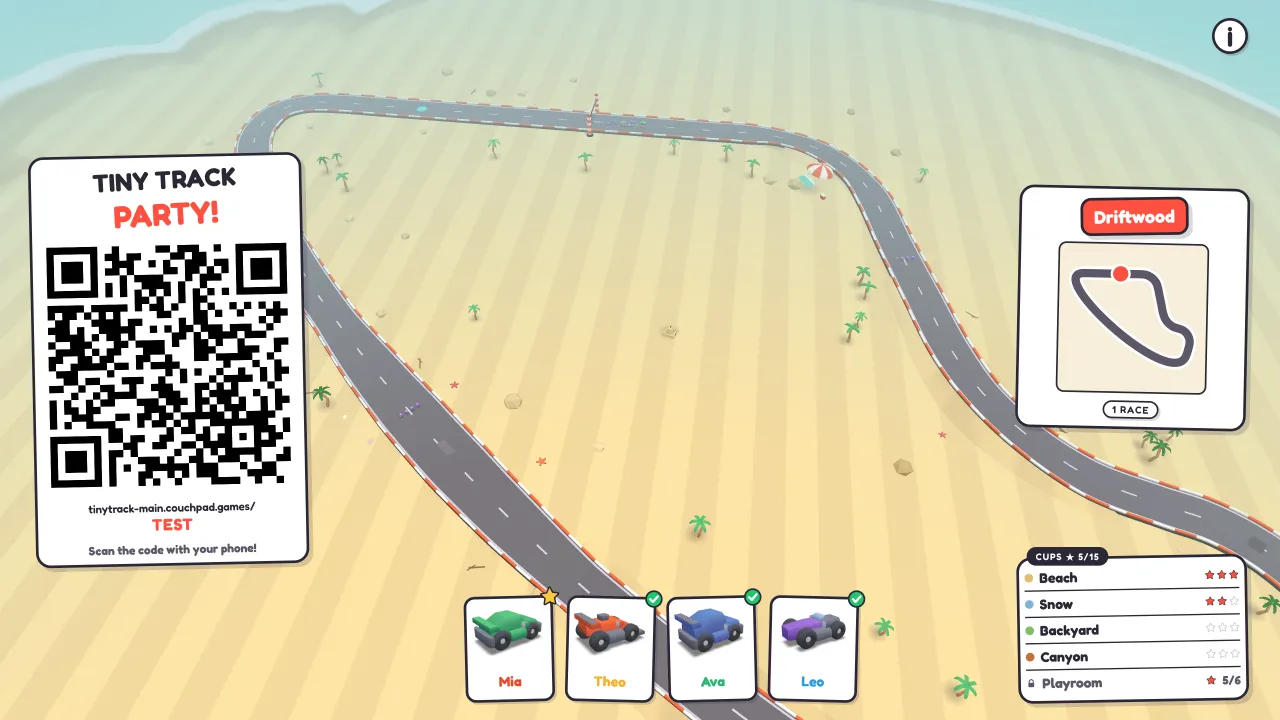
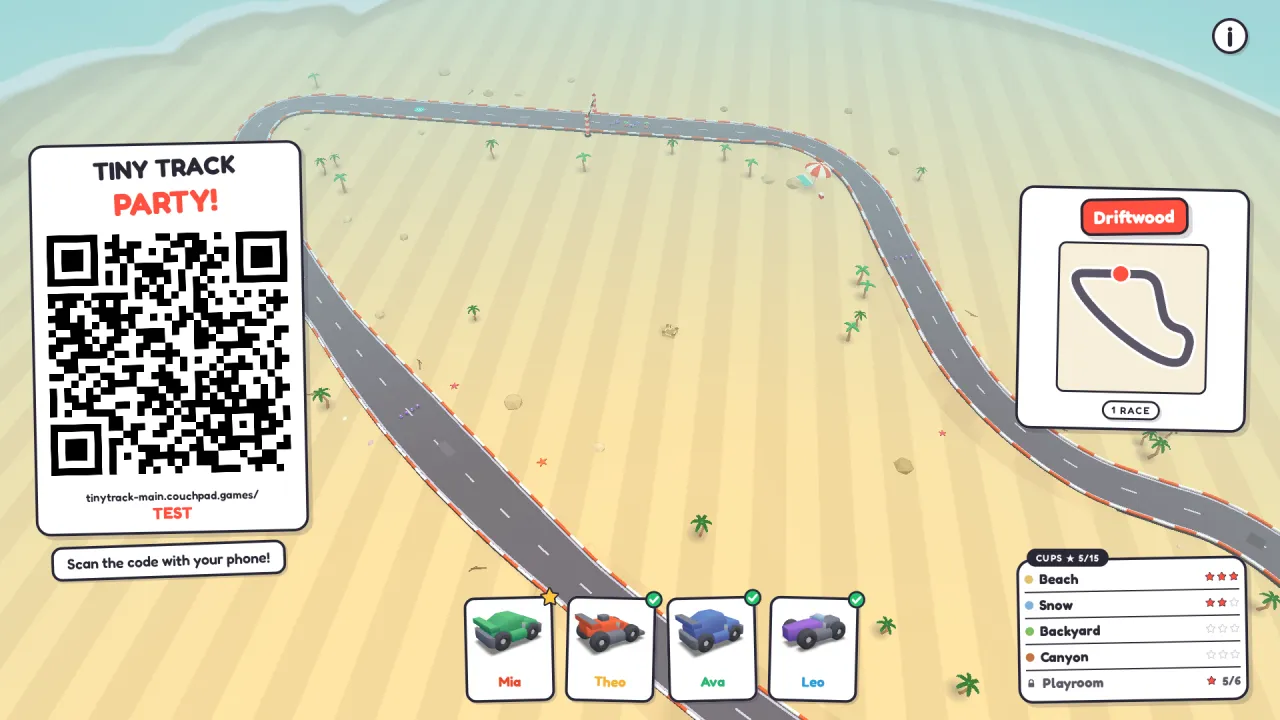
feat(lobby): scan hint is its own sticker under the ticket on web and Android TV
tvOS already hung "Scan the code with your phone!" as a separate tilted
sticker under the join ticket; the web and Android TV printed it as the
ticket's last line. Align both to tvOS. On the web it is safe in flow now:
the old 720p collision with the first seat came from the dock being a row
under the rails, and the dock has had its own column since. The web wraps it
at the ticket's width, because a browser window can be squatter than a TV.

Refreshes the Android lobby-track gallery shot from the box.

Claude-Session: https://claude.ai/code/session_01X9srVVpscgkxdq47Qhv9Uh

diff --git a/public/display/display.css b/public/display/display.css
@@ -106,13 +106,14 @@ html {
   padding: var(--safe-y) var(--safe-x) var(--safe-y-b);
 }
 
-/* Left rail — the join ticket, which carries its own scan hint. The rail
-   spans the band and CENTRES the ticket rather than stretching it: the QR is
-   what sets the card's height, and a card grown past its content is just a
-   field of white with a small QR marooned in it. */
+/* Left rail — the join ticket with the scan hint hanging under it. The rail
+   spans the band and CENTRES the pair rather than stretching the ticket: the
+   QR is what sets the card's height, and a card grown past its content is just
+   a field of white with a small QR marooned in it. */
 .ticket-rail {
   grid-area: ticket; align-self: stretch;
-  display: flex; align-items: center;
+  display: flex; flex-direction: column; justify-content: center; align-items: center;
+  gap: 14px;
 }
 /* Join ticket — the wordmark masthead over QR + URL, one sticker card.
    A <button>: the whole ticket copies the join link. */
@@ -292,21 +293,26 @@ html {
   box-shadow: var(--shadow-pop);
 }
 
-/* Scan hint — the ticket's own last line, under the join URL. Not a sticker of
-   its own: as a floating card it needed the join URL's whole width beside the
-   seat dock, and on a 720p board it landed on the first seat. Hidden until
-   there's a code to scan (the QR's .is-in), then it fades in with it. */
+/* Scan hint — a quiet white sticker of its own under the ticket, as on both TV
+   shells. In flow, so it can never land on the seat dock: the dock has its own
+   column. Hidden until there's a code to scan (the QR's .is-in), then it fades
+   in; its box is held from the start, so the ticket never re-centres. It
+   wraps at the ticket's width where the TV shells overhang on one line: a
+   browser window can be far squatter than a TV, and one line would overflow
+   the rail there. */
 .tagline {
   max-width: 100%;
   text-align: center;
-  color: var(--ink-2);
+  font-family: var(--font-display); font-weight: 600;
+  font-size: clamp(14px, 1.15vw, 22px); line-height: 1.15;
+  color: var(--ink); background: var(--surface);
+  border: 3px solid var(--ink); border-radius: var(--r);
+  padding: 0.55em 1.1em;
+  box-shadow: var(--shadow-pop);
+  rotate: -2deg;
   opacity: 0; transition: opacity 0.4s ease;
 }
-.ticket:has(#qr.is-in) .tagline { opacity: 1; }
-.tagline__main {
-  font-family: var(--font-display); font-weight: 600;
-  font-size: clamp(13px, 1.05vw, 18px); line-height: 1.15;
-}
+.ticket-rail:has(#qr.is-in) .tagline { opacity: 1; }
 
 /* "Cups" — the couch's star shelf, at the bottom of the right rail under the
    "Up next" card (whose pick these stars dress). ONE sticker card of
@@ -1091,10 +1097,8 @@ html.chrome-idle #corner-btns { opacity: 0; pointer-events: none; }
    (the .slap class) since their element never re-enters the DOM. All of it
    only exists under prefers-reduced-motion: no-preference.
 
-   The scan hint has no slap of its own: it's a line INSIDE the ticket now, so
-   it arrives with the card and only its QR-gated fade is left (see .tagline).
-   Slapping a line of text inside a card that is itself slapping reads as a
-   glitch, not as a second sticker. */
+   The scan hint has no slap: it is held back until the QR lands, which is
+   long after the slap, so its arrival is the fade (see .tagline). */
 @media (prefers-reduced-motion: no-preference) {
   .welcome__wordmark, .welcome__tag, .welcome__btn,
   .ticket, .cup-slot__pick, .lobby-foot {

diff --git a/shells/androidtv/app/src/main/kotlin/games/couchpad/tinytrack/LobbyScreen.kt b/shells/androidtv/app/src/main/kotlin/games/couchpad/tinytrack/LobbyScreen.kt
@@ -21,7 +21,7 @@ import androidx.compose.foundation.layout.offset
 import androidx.compose.foundation.layout.padding
 import androidx.compose.foundation.layout.size
 import androidx.compose.foundation.layout.width
-import androidx.compose.foundation.layout.widthIn
+import androidx.compose.foundation.layout.wrapContentWidth
 import androidx.compose.foundation.shape.CircleShape
 import androidx.compose.foundation.shape.RoundedCornerShape
 import androidx.compose.foundation.clickable
@@ -47,6 +47,7 @@ import androidx.compose.ui.graphics.StrokeCap
 import androidx.compose.ui.graphics.StrokeJoin
 import androidx.compose.ui.graphics.asComposePath
 import androidx.compose.ui.graphics.asImageBitmap
+import androidx.compose.ui.graphics.graphicsLayer
 import androidx.compose.ui.graphics.drawscope.Stroke
 import androidx.compose.ui.layout.ContentScale
 import androidx.compose.ui.semantics.contentDescription
@@ -284,6 +285,17 @@ private fun InfoBadge(modifier: Modifier = Modifier, onClick: () -> Unit) {
 @Composable
 private fun JoinTicket(state: GameState) {
     val open = state.joinUrl.isNotEmpty()
+    Column(
+        horizontalAlignment = Alignment.CenterHorizontally,
+        verticalArrangement = Arrangement.spacedBy(14.dp),
+    ) {
+        TicketCard(state, open)
+        ScanHint(open)
+    }
+}
+
+@Composable
+private fun TicketCard(state: GameState, open: Boolean) {
     StickerCard(rotation = -1.2f, padding = TICKET_PAD) {
         Column(
             Modifier.fillMaxWidth(),
@@ -356,17 +368,36 @@ private fun JoinTicket(state: GameState) {
                     }
                 }
             }
-
-            // HELD BACK UNTIL THERE IS SOMETHING TO SCAN (`.ticket:has(#qr.is-in)
-            // .tagline`): a board that says "scan the code" over a blank white
-            // square is instructing the room to scan nothing. Its box stays
-            // reserved, so the card does not resize when it appears.
-            StickerText(
-                Copy.scanPrompt, size = 18.dp,
-                color = if (open) Tokens.ink2 else Color.Transparent,
-                modifier = Modifier.widthIn(max = 380.dp),
-            )
         }
+    }
+}
+
+/**
+ * The scan hint: its own quiet white sticker hanging under the ticket, as on
+ * tvOS (`LobbyView.scanHint`) and the web (`.tagline`).
+ *
+ * HELD BACK UNTIL THERE IS SOMETHING TO SCAN (`.ticket-rail:has(#qr.is-in)
+ * .tagline`): a board that says "scan the code" over a blank white square is
+ * instructing the room to scan nothing. Hidden through a `graphicsLayer` alpha,
+ * which keeps its box (so the ticket does not re-centre when it appears) and,
+ * unlike `Modifier.alpha`, does not clip the hard drop.
+ */
+@Composable
+private fun ScanHint(open: Boolean) {
+    val shape = RoundedCornerShape(Sticker.radius)
+    Box(
+        Modifier
+            // One line, overhanging the ticket rather than wrapping (tvOS's
+            // `fixedSize()`).
+            .wrapContentWidth(unbounded = true)
+            .graphicsLayer { alpha = if (open) 1f else 0f }
+            .tilt(-2f)
+            .hardShadow(Sticker.popShadow, shape)
+            .background(Tokens.surface, shape)
+            .stickerOutline(Sticker.border, shape)
+            .padding(vertical = 13.dp, horizontal = 24.dp),
+    ) {
+        StickerText(Copy.scanPrompt, size = 22.dp, weight = Fonts.semibold, color = Tokens.ink)
     }
 }
 

diff --git a/public/display/index.html b/public/display/index.html
@@ -129,15 +129,12 @@
   <section id="lobby" class="hidden">
     <!-- Join ticket — ONE sticker card with the wordmark as its masthead:
          TINY TRACK PARTY! over QR + the join URL (code highlighted in the
-         accent colour by renderJoinUrl in Net.js) + the scan hint as its last
-         line. It's a <button>: click (or Enter/Space) copies the full join
-         link, confirmed by the #toast. -->
+         accent colour by renderJoinUrl in Net.js), with the scan hint as its
+         own sticker hanging under it. It's a <button>: click (or Enter/Space)
+         copies the full join link, confirmed by the #toast. -->
     <div class="ticket-rail">
-      <!-- aria-describedby reaches the scan hint: a button's children are
-           presentational, so the hint became unreadable the moment it moved
-           inside the card. A DESCRIPTION is still computed from the referenced
-           subtree, and the hint is the one line that says what the card is
-           for. -->
+      <!-- aria-describedby reaches the scan hint, the one line that says what
+           the card is for. -->
       <button type="button" class="ticket" id="joinbox" aria-label="Copy join link" aria-describedby="tagline">
         <span class="wordmark ticket__wordmark"><span>TINY TRACK</span><span class="l2">PARTY!</span></span>
         <canvas id="qr"></canvas>
@@ -147,14 +144,10 @@
           <div class="ticket__url ticket__wait">Loading…</div>
           <div class="ticket__url" id="joinurl"></div>
         </div>
-        <!-- Scan hint — the ticket's own last line for the whole lobby
-             (joining stays possible until the race starts). Inside the card
-             rather than hanging under it: as a free-floating sticker it
-             overlapped the first seat on a 720p board. -->
-        <div class="tagline" id="tagline">
-          <div class="tagline__main">Scan the code with your phone!</div>
-        </div>
       </button>
+      <!-- Scan hint — up for the whole lobby (joining stays possible until
+           the race starts). -->
+      <div class="tagline" id="tagline">Scan the code with your phone!</div>
     </div>
 
     <!-- Race rail — tonight's race over the long game, one column. The pick

diff --git a/shells/tvos/TinyTrackParty/Screens/LobbyView.swift b/shells/tvos/TinyTrackParty/Screens/LobbyView.swift
@@ -154,9 +154,9 @@ struct LobbyView: View {
         HStack(alignment: .center, spacing: Self.railGap) {
             // Each rail sizes its own card (see `LobbyViewMetrics`) rather than
             // being framed here: the scan hint is deliberately allowed to hang
-            // wider than the ticket it belongs to, exactly as the web lets it
-            // (`max-width: 120%`), and a frame at this level would wrap it
-            // instead.
+            // wider than the ticket it belongs to, as Android's does, and a
+            // frame at this level would wrap it instead. (The web wraps it at
+            // the ticket's width, because its window can be squatter than a TV.)
             JoinTicket(joinURL: state.joinURL, roomCode: state.roomCode, qr: state.joinQR)
             // THE DOCK IS BESIDE THE RAILS, NOT BELOW THEM — the web's
             // `grid-template-areas: "ticket dock race"`. It used to be the second
@@ -431,11 +431,8 @@ private struct JoinTicket: View {
     }
 
     /// A quiet white sticker hanging under the ticket for the whole lobby —
-    /// joining stays possible until the race starts.
-    ///
-    /// The web positions this absolutely so its pre/post-pick toggle cannot move
-    /// the card; there is no toggle here (it is always up), so it is simply the
-    /// next thing in the stack.
+    /// joining stays possible until the race starts. The web (`.tagline`) and
+    /// Android (`LobbyScreen.ScanHint`) hang the same sticker under their ticket.
     private var scanHint: some View {
         Text(Copy.scanPrompt)
             .font(Fonts.display(22, weight: .semibold))
